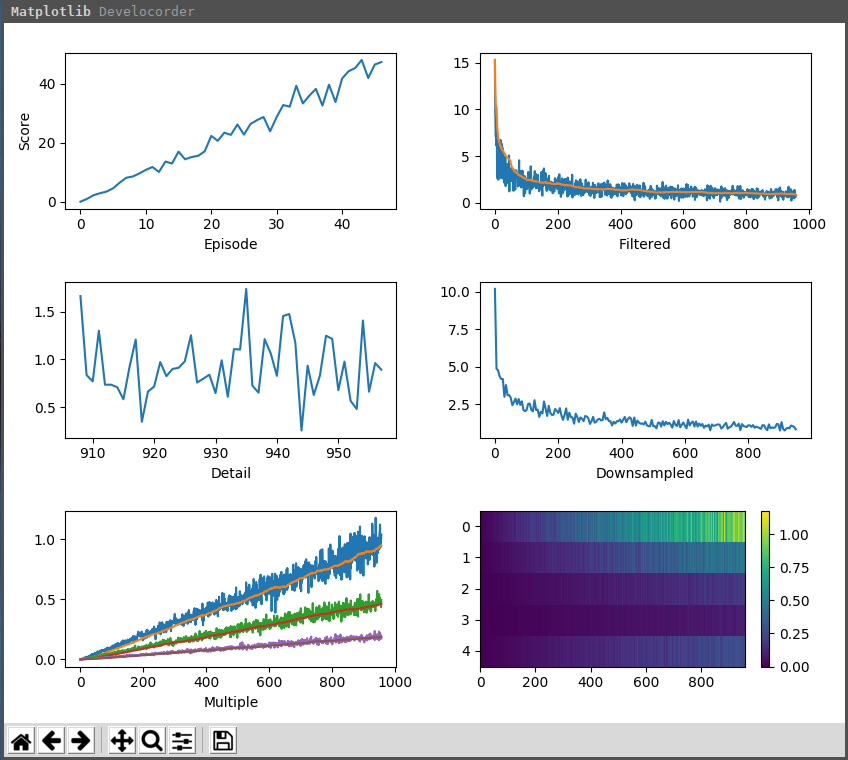
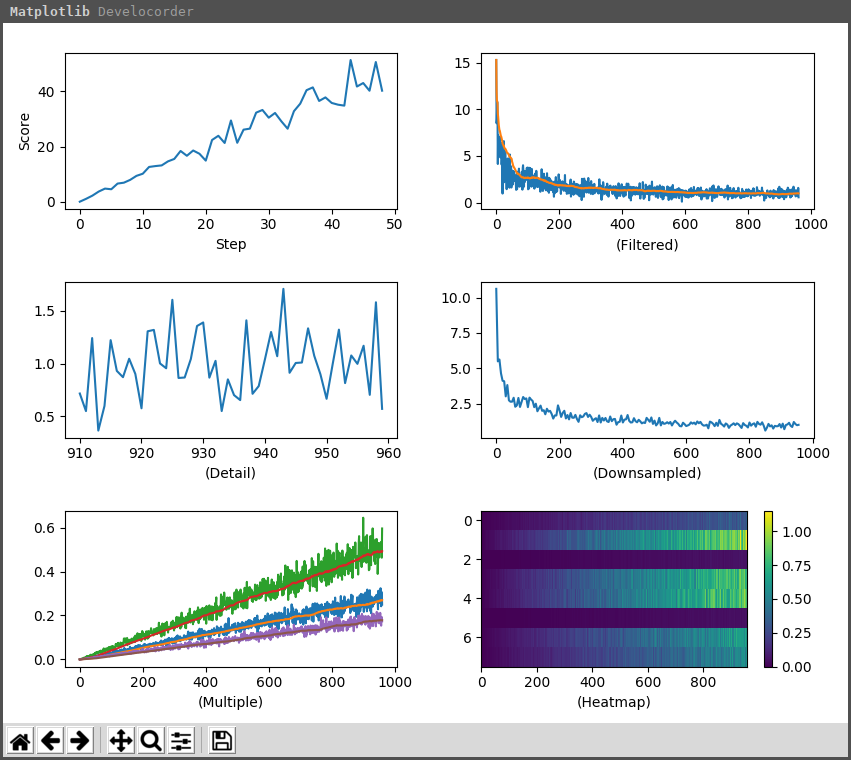
improve code quality

diff --git a/examples/fancy.py b/examples/fancy.py
@@ -1,4 +1,5 @@
 import time
+from itertools import count
 
 import numpy as np
 
@@ -16,22 +17,22 @@ from develocorder import (
 
 def run_example():
     # axis labels
-    set_recorder(labeled=LinePlot(xlabel="Episode", ylabel="Score"))
+    set_recorder(labeled=LinePlot(xlabel="Step", ylabel="Score"))
 
     # additional filtered values (window filter)
-    set_recorder(filtered=FilteredLinePlot(filter_size=50, xlabel="Filtered"))
+    set_recorder(filtered=FilteredLinePlot(filter_size=50, xlabel="(Filtered)"))
 
     # maximum history length
-    set_recorder(detail=LinePlot(max_length=50, xlabel="Detail"))
+    set_recorder(detail=LinePlot(max_length=50, xlabel="(Detail)"))
 
     # downsampled values (record mean of every filter_size values)
-    set_recorder(downsampled=DownsampledLinePlot(filter_size=5, xlabel="Downsampled"))
+    set_recorder(downsampled=DownsampledLinePlot(filter_size=5, xlabel="(Downsampled)"))
 
     # multiple curves for recording 1d-array values
-    set_recorder(multiple=FilteredLinePlot(filter_size=50, xlabel="Multiple"))
+    set_recorder(multiple=FilteredLinePlot(filter_size=50, xlabel="(Multiple)"))
 
     # heatmap for recording 1d-array values
-    set_recorder(heatmap=Heatmap(xlabel="Heatmap"))
+    set_recorder(heatmap=Heatmap(xlabel="(Heatmap)"))
 
     # minimum update period (limit update rate for better performance)
     set_update_period(0.5)  # [seconds]
@@ -39,32 +40,37 @@ def run_example():
     # set number of columns
     set_num_columns(2)
 
-    # generate example values
-    for episode in range(50):
-        for step in range(20):
-            i = episode * 20 + step
-            loss = example_loss(i)
+    # example value generators
+    score_gen = score_values()
+    loss_gen = loss_values()
+    multiple = array_values(3)
+    heatmap = array_values(8)
+
+    for _ in range(50):
+        record(labeled=next(score_gen))
+        for _ in range(20):
+            loss = next(loss_gen)
             record(filtered=loss, downsampled=loss, detail=loss)
-            values = example_values(i)
-            record(multiple=values[:3], heatmap=values)
+            record(multiple=next(multiple), heatmap=next(heatmap))
             time.sleep(0.01)
 
-        record(labeled=example_score(episode))
+
+def loss_values(random=np.random.RandomState(0)):
+    for i in count():
+        yield 10 / (pow(i / 10, 0.5) + 1) * (1 + 0.3 * random.standard_normal())
 
 
-def example_loss(i):
-    return 10 / (pow(i / 10, 0.5) + 1) * (1 + 0.3 * np.random.standard_normal())
+def score_values(random=np.random.RandomState(0)):
+    for i in count():
+        yield i * (1 + 0.1 * random.standard_normal())
 
 
-def example_score(i):
-    return i * (1 + 0.1 * np.random.standard_normal())
-
-
-def example_values(i):
-    return np.array([1, 0.5, 0.2, 0.1, 0.3]) * i * 0.001 * (1 + 0.1 * np.random.standard_normal(5))
+def array_values(dimensions, random=np.random.RandomState(17)):
+    factor = random.random(dimensions) * 0.001
+    for i in count():
+        yield factor * i * (1 + 0.1 * random.standard_normal(dimensions))
 
 
 if __name__ == "__main__":
-    np.random.seed(0)
     run_example()
     input("Press Enter to exit...")
